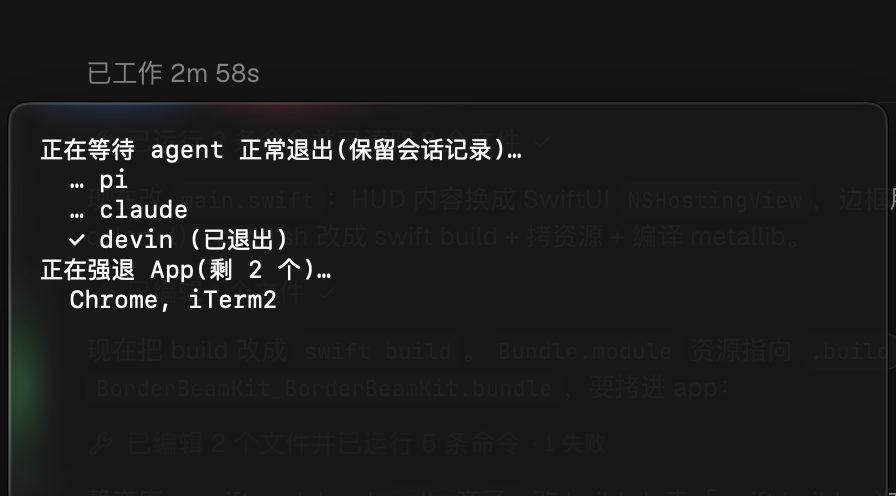
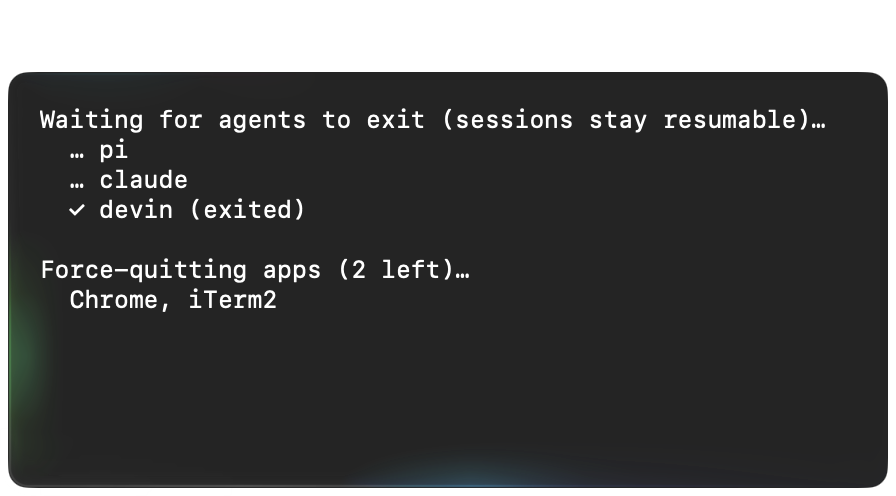
docs: README 首图换成真实 HUD 截图 + mock 演示改英文
- assets/hud.png 换成真实渲染(带 BorderBeam 光束),不再用 hero.svg 当头图
- ⌥预览演示固定英文,截图可读性更好
- README 结构收紧:三步改成 agent→app→shutdown,对比表加「会话可 resume」行
- hud.beam brightness 1.8,小面板上默认强度太暗

Changed region(s): [[0.0, 0.0, 1.0, 1.0], [0.0625, 0.4234, 0.0938, 0.4536]]

diff --git a/Sources/main.swift b/Sources/main.swift
@@ -90,7 +90,7 @@ final class Actions: NSObject, NSMenuDelegate {
                 .frame(maxWidth: .infinity, maxHeight: .infinity, alignment: .topLeading)
                 .padding(16)
                 .background(Color(white: 0.1).opacity(0.95), in: RoundedRectangle(cornerRadius: 10))
-                .borderBeam(.md, theme: .dark, borderRadius: 10)
+                .borderBeam(.md, theme: .dark, borderRadius: 10, brightness: 1.8) // HUD 小,默认强度看不清光束
                 .padding(4)
         }
     }
@@ -113,7 +113,8 @@ final class Actions: NSObject, NSMenuDelegate {
     private var demoTimer: Timer?
     @objc func previewHUD() {
         if hud.isVisible { hud.close(); demoTimer?.invalidate(); return }
-        phase = zh ? "正在等待 agent 正常退出(保留会话记录)…" : "Waiting for agents to exit…"
+        // 演示固定英文:截图/README 里中文太长反而看不清状态
+        phase = "Waiting for agents to exit (sessions stay resumable)…"
         agentStates = [(0, "pi", nil), (0, "claude", nil), (0, "devin", nil)]
         appNames = []
         updateHUD()
@@ -121,11 +122,11 @@ final class Actions: NSObject, NSMenuDelegate {
         demoTimer = Timer.scheduledTimer(withTimeInterval: 0.8, repeats: true) { _ in
             step += 1
             if step <= 3 {
-                self.agentStates[step - 1].done = zh ? "已退出" : "exited"
-                if step == 3 { self.phase = zh ? "\n正在强退 App(剩 2 个)…" : "\nForce-quitting apps (2 left)…"; self.appNames = ["Chrome", "iTerm2"] }
+                self.agentStates[step - 1].done = "exited"
+                if step == 3 { self.phase = "\nForce-quitting apps (2 left)…"; self.appNames = ["Chrome", "iTerm2"] }
             } else if step == 4 {
                 self.appNames = ["iTerm2"]
-                self.phase = zh ? "\n正在强退 App(剩 1 个)…" : "\nForce-quitting apps (1 left)…"
+                self.phase = "\nForce-quitting apps (1 left)…"
             } else {
                 self.hud.close(); self.demoTimer?.invalidate()
             }

diff --git a/README.md b/README.md
@@ -15,7 +15,7 @@
 
 English · [简体中文](README.zh-CN.md)
 
-<img src="assets/hero.svg" alt="Before: Terminal, TextEdit and Chrome dialogs block shutdown. After: one click on the menu bar and the Mac is off." width="100%">
+<img src="assets/hud.png" alt="Live shutdown HUD: waiting for pi and claude to exit, devin exited, force-quitting Chrome and iTerm2 — ringed by a rotating BorderBeam glow" width="448">
 
 </div>
 
@@ -46,19 +46,18 @@ If you mostly put your Mac to sleep, or you rely on those *"Save changes?"* prom
 
 Click the <kbd>⏻</kbd> icon in the menu bar → **Shut Down Now**. That's it.
 
-1. AI agents still running (Claude, Codex, pi, devin, cursor-agent, …) get a **SIGTERM** first — they flush their session logs, so you can resume them next time instead of finding a truncated history.
-2. Every regular app (anything with a Dock icon) is **force-quit**, so no app gets a chance to ask a question.
-3. One second later, macOS shuts down normally.
+1. **Agents first.** Still-running AI harnesses (Claude, Codex, pi, devin, cursor-agent, opencode, …) get a `SIGTERM` and up to 5 s to flush their session logs — so `--resume` works later instead of returning truncated history.
+2. **Then apps.** Every regular app (anything with a Dock icon) is force-quit, so no "Save changes?" dialog gets a chance.
+3. **Then shutdown.** macOS shuts down normally.
 
-The status menu shows how many agent sessions are running before you commit. Once you confirm, a center-screen HUD tracks the shutdown live — each agent's graceful exit, then the apps being force-quit — ringed by a rotating [BorderBeam](https://github.com/xxvzzczxxl/border-beam) glow.
-
-<img src="assets/hud.png" alt="Shutdown HUD: waiting for pi and claude to exit, devin already exited, force-quitting Chrome and iTerm2" width="448">
+The menu shows a live agent count before you commit; on confirm, a center-screen HUD tracks each agent's exit and every force-quit, ringed by a rotating [BorderBeam](https://github.com/xxvzzczxxl/border-beam) glow. ⌥-click the icon for a demo.
 
 Finder, background services and menu-bar utilities are left alone and quit as part of the regular shutdown.
 
 |  | Apple menu → Shut Down | `sudo shutdown -h now` | **OneShutdown** |
 |---|:---:|:---:|:---:|
 | Apps can cancel it with dialogs | ❌ yes | ✅ no | ✅ no |
+| AI agent sessions kept resumable | ❌ killed mid-write | ❌ killed mid-write | ✅ SIGTERM + grace |
 | Needs Terminal + admin password | ✅ no | ❌ yes | ✅ no |
 | Steps | 2 clicks + 1 per dialog | open Terminal, type, password | **1 click** |
 
@@ -80,7 +79,7 @@ Click **Allow**. OneShutdown asks System Events to shut down the Mac, the same w
 
 ## Build from source
 
-No Xcode project and no dependencies, just the `swiftc` that ships with the Command Line Tools:
+No Xcode project — `swiftc` for the app, `swift build` for the vendored beam package:
 
 ```bash
 git clone https://github.com/ZephyrDeng/one-shutdown.git
@@ -89,7 +88,7 @@ cd one-shutdown
 open build/OneShutdown.app
 ```
 
-The app itself is [287 lines of Swift](Sources/main.swift); the beam animation comes from the vendored [BorderBeamKit](Packages/BorderBeamKit/) package (SwiftUI + Metal shaders). Read it before you run it.
+The app itself is [287 lines of Swift](Sources/main.swift); the beam animation comes from the vendored [BorderBeamKit](Packages/BorderBeamKit/) package (SwiftUI + Metal shaders, ported from the border-beam web library). Read it before you run it.
 
 ## Ideas & contributing
 

diff --git a/README.zh-CN.md b/README.zh-CN.md
@@ -15,7 +15,7 @@
 
 [English](README.md) · 简体中文
 
-<img src="assets/hero.svg" alt="之前：终端、文本编辑、Chrome 的确认弹窗拦住关机；之后：菜单栏点一下，直接关机" width="100%">
+<img src="assets/hud.png" alt="关机实时 HUD：正在等 pi 和 claude 退出，devin 已退出，正在强退 Chrome 和 iTerm2，外圈绕着旋转的 BorderBeam 流光" width="448">
 
 </div>
 
@@ -46,19 +46,18 @@
 
 点菜单栏 <kbd>⏻</kbd> → **立即关机**，就这样。
 
-1. 还在运行的 AI agent（Claude、Codex、pi、devin、cursor-agent……）先收到 **SIGTERM** 正常退出——会话记录写完落盘，下次才能 resume，而不是留下半截历史。
-2. **强制退出**所有普通 App（在 Dock 里有图标的那些），不给它们弹窗的机会。
-3. 1 秒后走系统正常关机流程。
+1. **先收 agent。** 还在运行的 AI harness（Claude、Codex、pi、devin、cursor-agent、opencode……）收到 `SIGTERM`，最多 5 秒把会话记录写完落盘——下次 `--resume` 接着跑，而不是留下半截历史。
+2. **再强退 App。** 所有普通 App（Dock 里有图标的）被强制退出，不给「是否保存」弹窗的机会。
+3. **正常关机。** 走 macOS 标准关机流程。
 
-菜单第一行会显示当前还有几个 agent 会话在跑。确认后屏幕中央会弹出 HUD 实时跟踪关机进度——每个 agent 的正常退出、逐个强退的 App——外圈绕着一圈旋转的 BorderBeam 流光。
-
-<img src="assets/hud.png" alt="关机 HUD：正在等 pi 和 claude 退出，devin 已退出，正在强退 Chrome 和 iTerm2" width="448">
+菜单第一行实时显示还有几个 agent 会话在跑；确认后屏幕中央弹出 HUD，逐个跟踪 agent 的退出和 App 的强退，外圈绕着一圈旋转的 [BorderBeam](https://github.com/xxvzzczxxl/border-beam) 流光。按住 ⌥ 点菜单栏图标可以看演示。
 
 Finder、后台服务和菜单栏小工具不会被强退，它们在系统关机时正常退出。
 
 |  | 菜单 → 关机 | `sudo shutdown -h now` | **OneShutdown** |
 |---|:---:|:---:|:---:|
 | 会被 App 弹窗拦住 | ❌ 会 | ✅ 不会 | ✅ 不会 |
+| AI agent 会话可 resume | ❌ 写到一半被杀 | ❌ 写到一半被杀 | ✅ SIGTERM + 宽限 |
 | 需要开终端 + 输管理员密码 | ✅ 不需要 | ❌ 需要 | ✅ 不需要 |
 | 操作步骤 | 点 2 下，每个弹窗再点一下 | 开终端、敲命令、输密码 | **点 1 下** |
 
@@ -89,7 +88,7 @@ cd one-shutdown
 open build/OneShutdown.app
 ```
 
-App 本体是 [287 行 Swift](Sources/main.swift)，光束动画来自内置的 [BorderBeamKit](Packages/BorderBeamKit/) 包（SwiftUI + Metal shader）。运行前可以先读一遍。
+App 本体是 [287 行 Swift](Sources/main.swift)，光束动画来自内置的 [BorderBeamKit](Packages/BorderBeamKit/) 包（SwiftUI + Metal shader，移植自 border-beam 网页库）。运行前可以先读一遍。
 
 ## 想法与贡献
 
